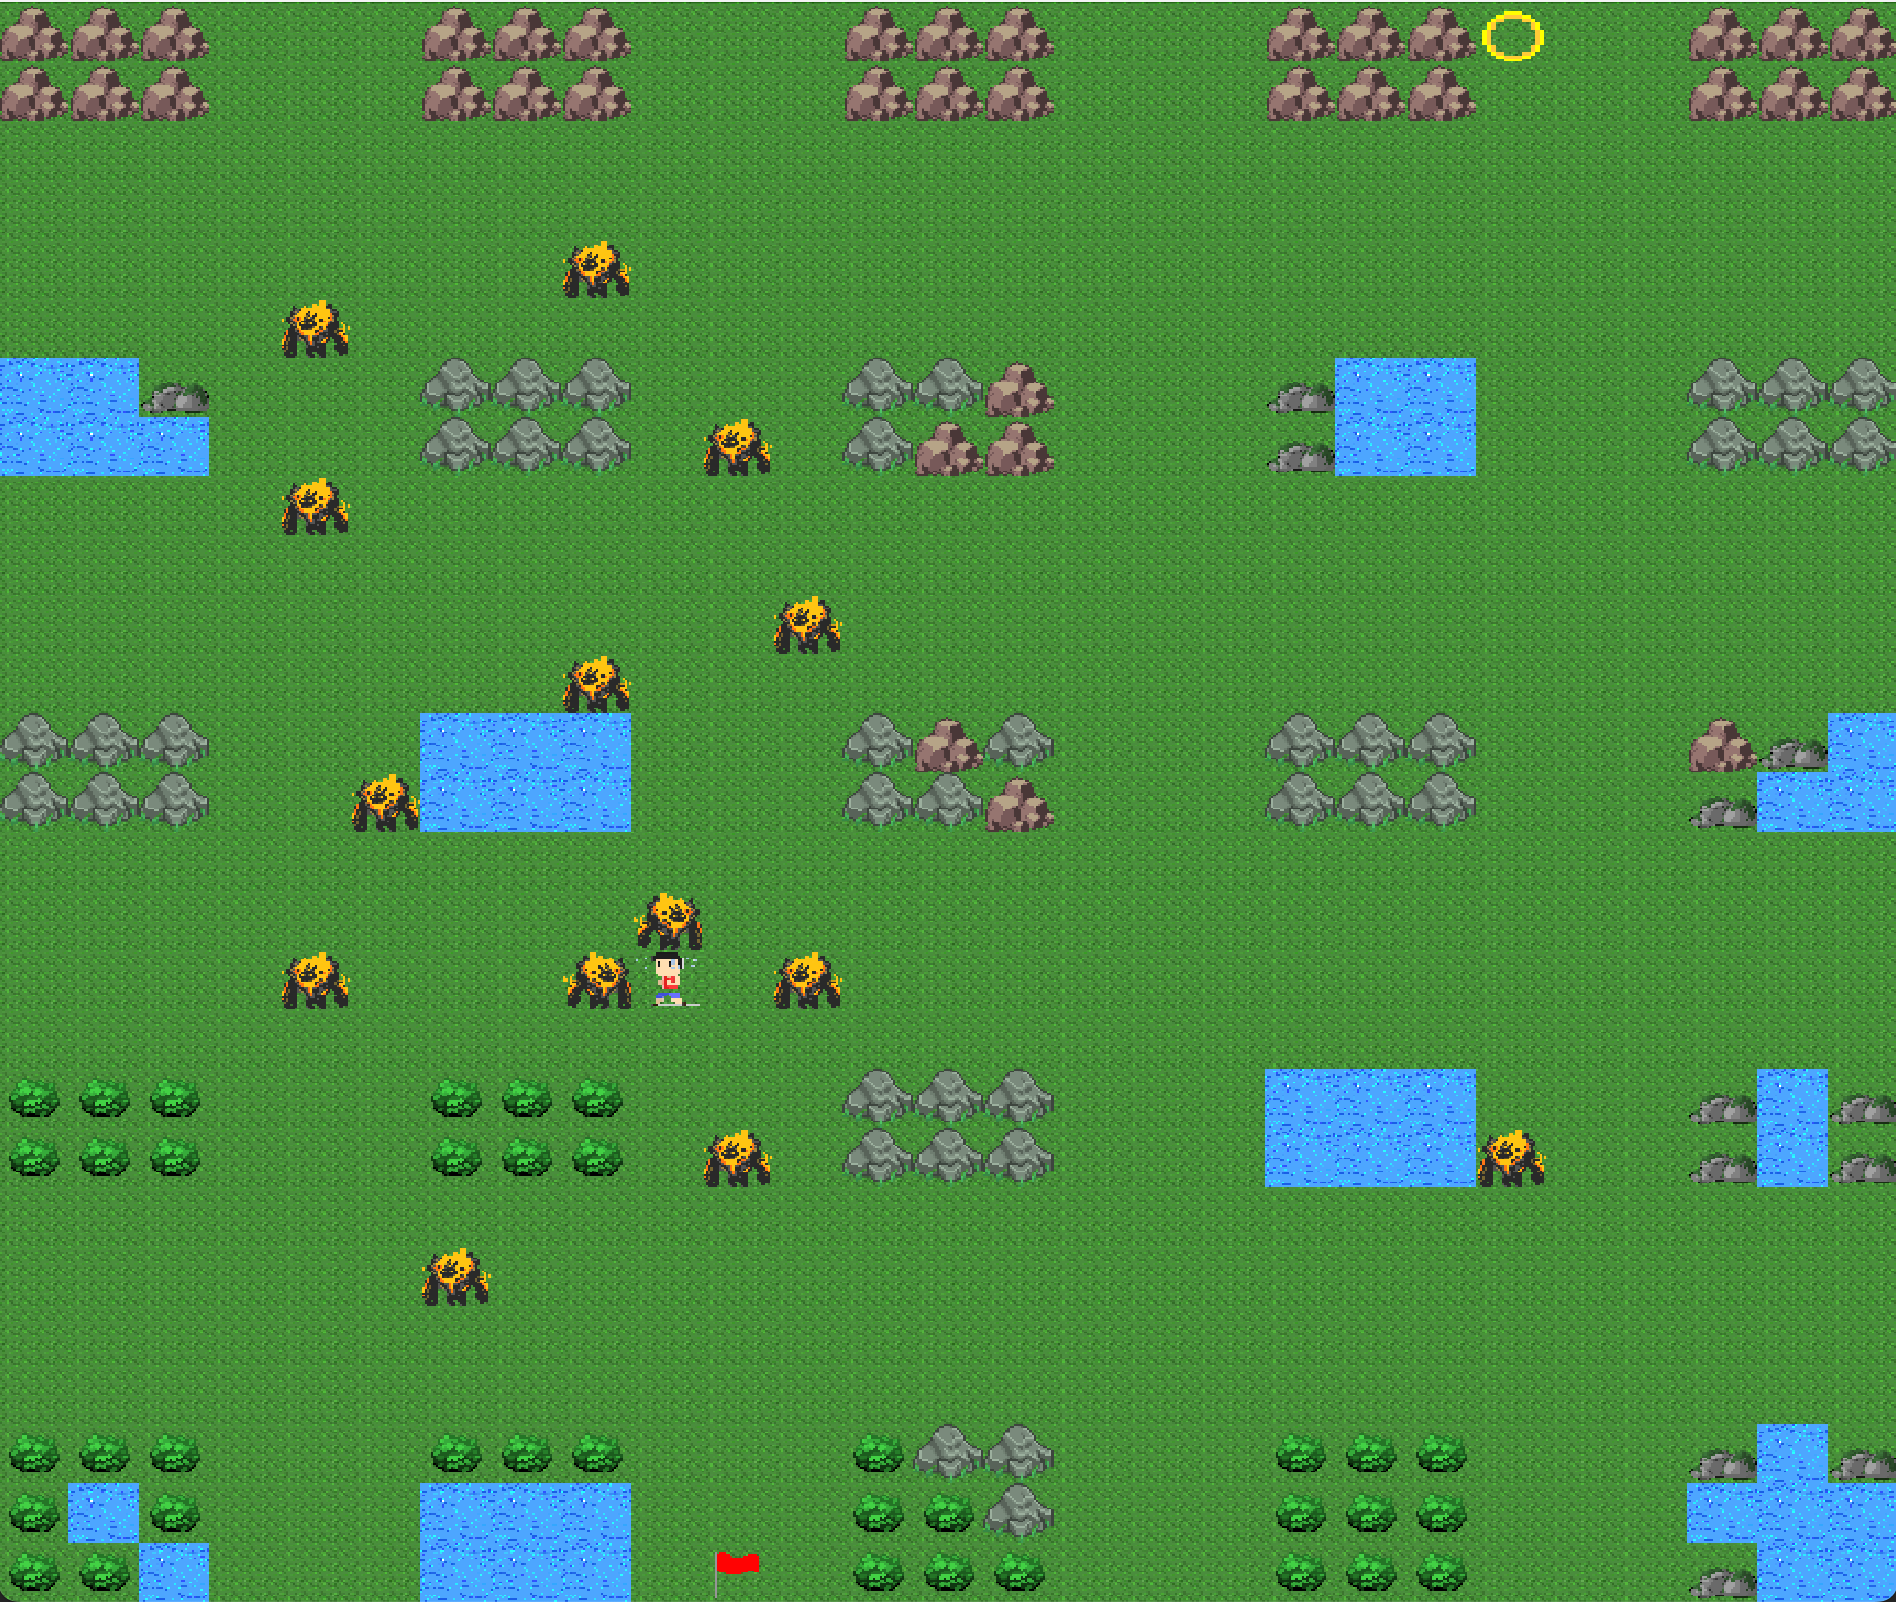
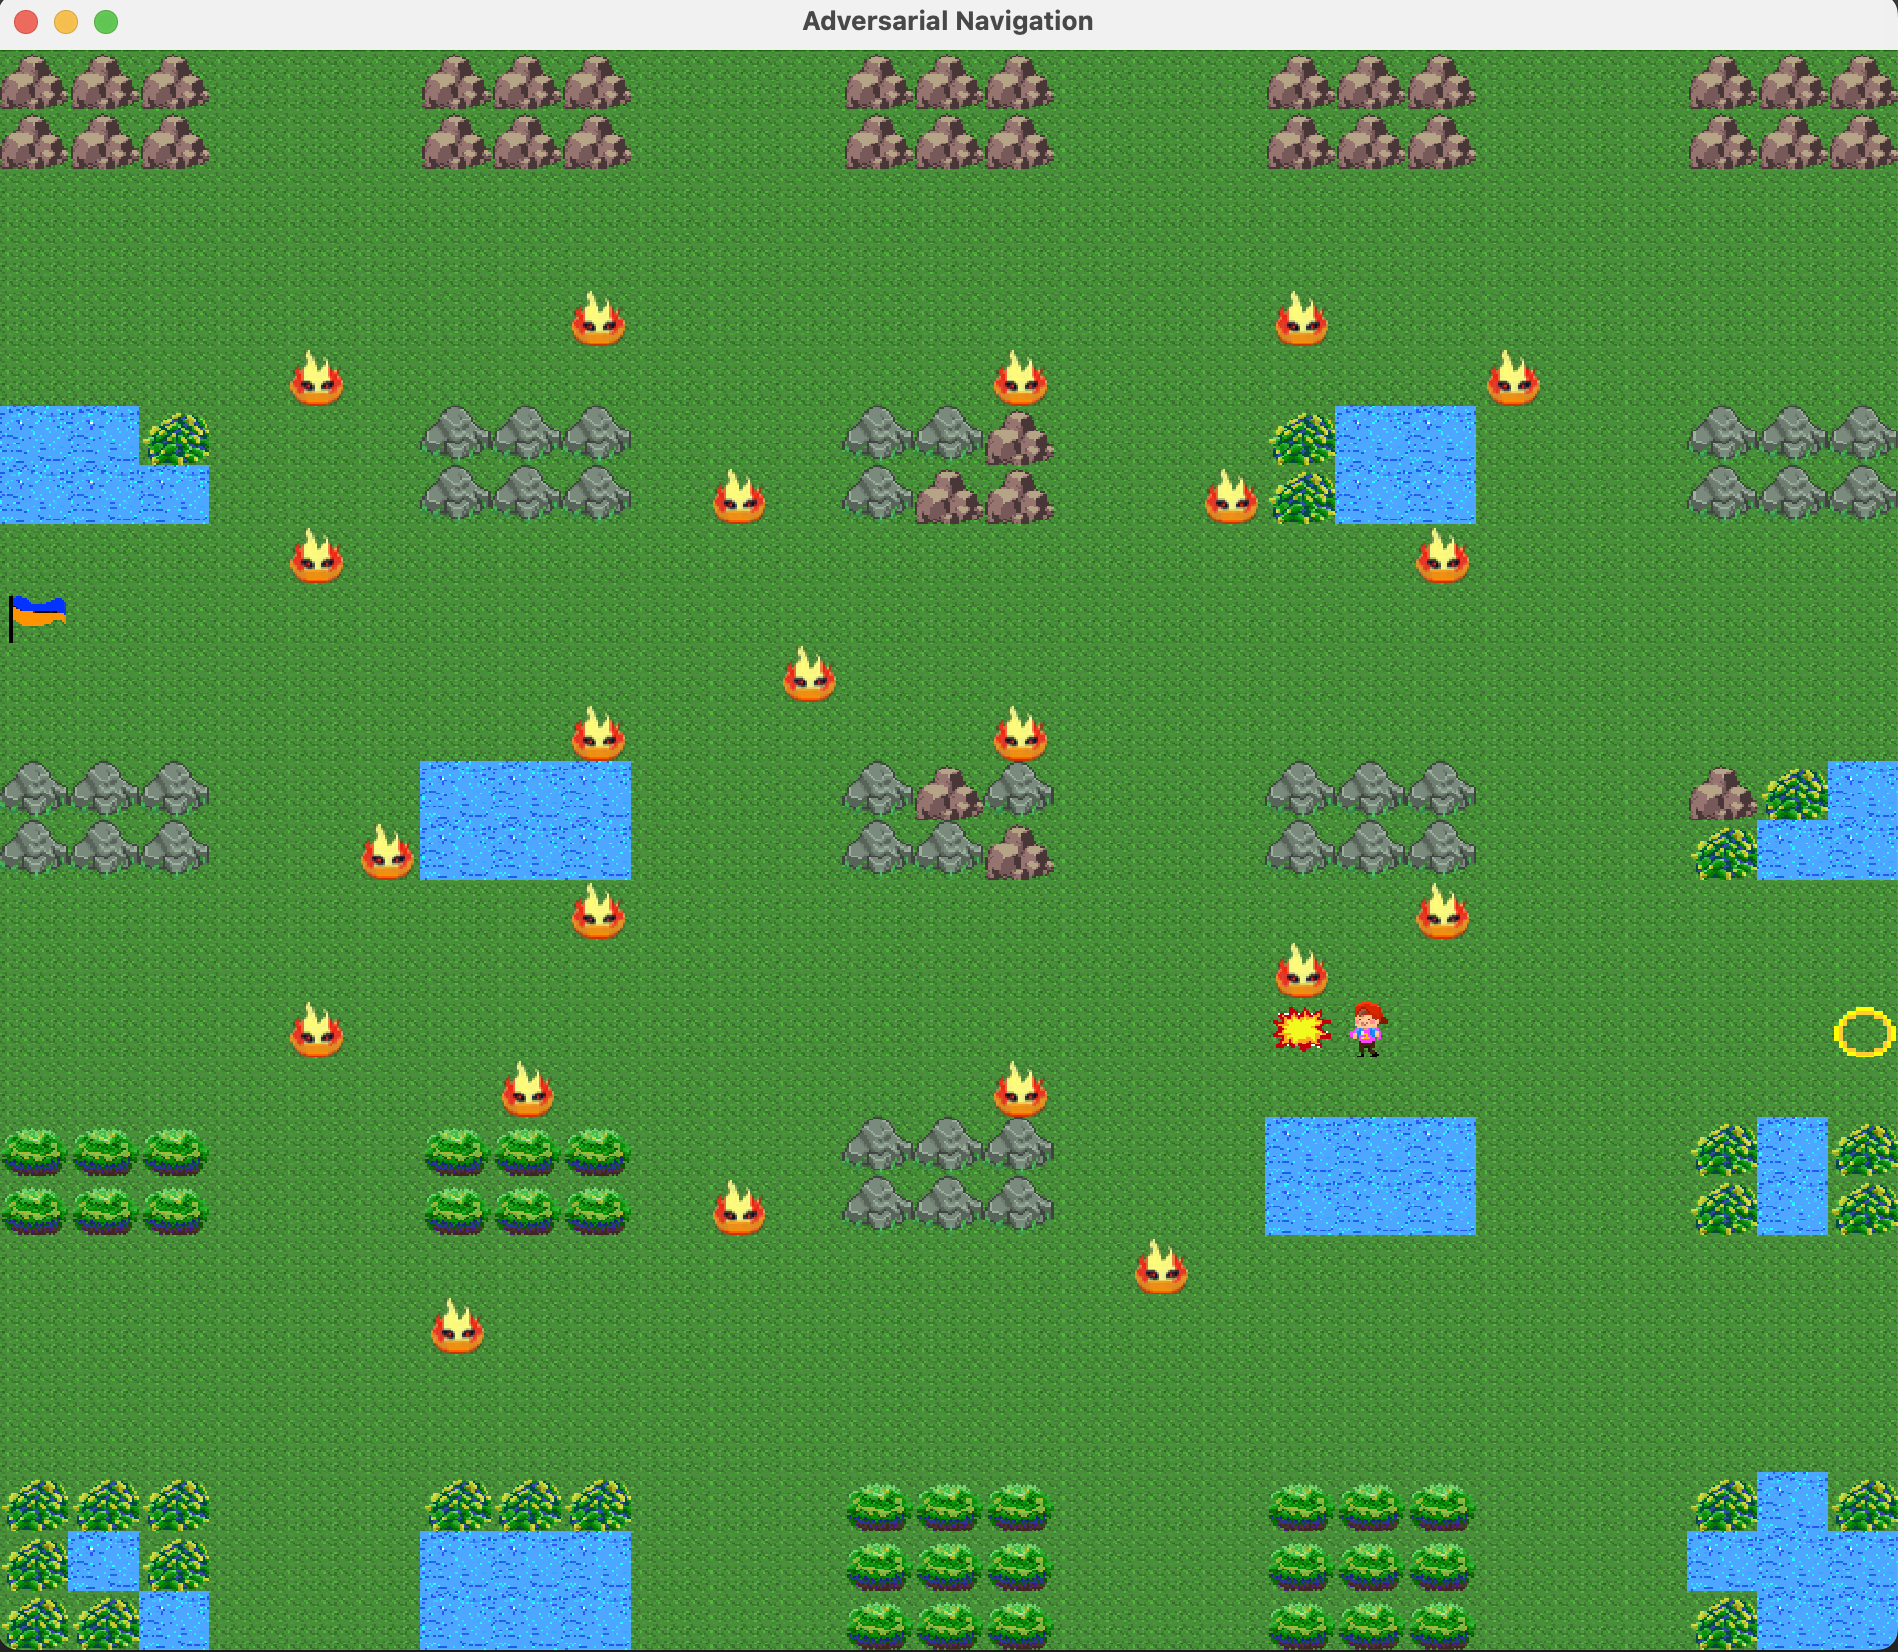
fixed map generation, updated tiles

diff --git a/apps/game1/UI/SimpleUIView.cpp b/apps/game1/UI/SimpleUIView.cpp
@@ -17,33 +17,33 @@ void SimpleUIView::startGameLoop(bool &isGameStopped) {
 
     int gameMap[] =
             {
-                    14, 14, 14, 1, 1, 1, 14, 14, 14, 1, 1, 1, 14, 14, 14, 1, 1, 1, 14, 14, 14, 1, 1, 1, 14, 14, 14,
-                    14, 14, 14, 1, 1, 1, 14, 14, 14, 1, 1, 1, 14, 14, 14, 1, 1, 1, 14, 14, 14, 1, 1, 1, 14, 14, 14,
+                    12, 12, 12, 1, 1, 1, 12, 12, 12, 1, 1, 1, 12, 12, 12, 1, 1, 1, 12, 12, 12, 1, 1, 1, 12, 12, 12,
+                    12, 12, 12, 1, 1, 1, 12, 12, 12, 1, 1, 1, 12, 12, 12, 1, 1, 1, 12, 12, 12, 1, 1, 1, 12, 12, 12,
                     1, 1, 1, 1, 1, 1, 1, 1, 1, 1, 1, 1, 1, 1, 1, 1, 1, 1, 1, 1, 1, 1, 1, 1, 1, 1, 1,
                     1, 1, 1, 1, 1, 1, 1, 1, 1, 1, 1, 1, 1, 1, 1, 1, 1, 1, 1, 1, 1, 1, 1, 1, 1, 1, 1,
                     1, 1, 1, 1, 1, 1, 1, 1, 1, 1, 1, 1, 1, 1, 1, 1, 1, 1, 1, 1, 1, 1, 1, 1, 1, 1, 1,
                     1, 1, 1, 1, 1, 1, 1, 1, 1, 1, 1, 1, 1, 1, 1, 1, 1, 1, 1, 1, 1, 1, 1, 1, 1, 1, 1,
-                    12, 12, 13, 1, 1, 1, 0, 0, 0, 1, 1, 1, 0, 0, 14, 1, 1, 1, 13, 12, 12, 1, 1, 1, 0, 0, 0,
-                    12, 12, 12, 1, 1, 1, 0, 0, 0, 1, 1, 1, 0, 14, 14, 1, 1, 1, 13, 12, 12, 1, 1, 1, 0, 0, 0,
+                    10, 10, 11, 1, 1, 1, 0, 0, 0, 1, 1, 1, 0, 0, 12, 1, 1, 1, 11, 10, 10, 1, 1, 1, 0, 0, 0,
+                    10, 10, 10, 1, 1, 1, 0, 0, 0, 1, 1, 1, 0, 12, 12, 1, 1, 1, 11, 10, 10, 1, 1, 1, 0, 0, 0,
                     1, 1, 1, 1, 1, 1, 1, 1, 1, 1, 1, 1, 1, 1, 1, 1, 1, 1, 1, 1, 1, 1, 1, 1, 1, 1, 1,
                     1, 1, 1, 1, 1, 1, 1, 1, 1, 1, 1, 1, 1, 1, 1, 1, 1, 1, 1, 1, 1, 1, 1, 1, 1, 1, 1,
                     1, 1, 1, 1, 1, 1, 1, 1, 1, 1, 1, 1, 1, 1, 1, 1, 1, 1, 1, 1, 1, 1, 1, 1, 1, 1, 1,
                     1, 1, 1, 1, 1, 1, 1, 1, 1, 1, 1, 1, 1, 1, 1, 1, 1, 1, 1, 1, 1, 1, 1, 1, 1, 1, 1,
-                    0, 0, 0, 1, 1, 1, 12, 12, 12, 1, 1, 1, 0, 14, 0, 1, 1, 1, 0, 0, 0, 1, 1, 1, 14, 13, 12,
-                    0, 0, 0, 1, 1, 1, 12, 12, 12, 1, 1, 1, 0, 0, 14, 1, 1, 1, 0, 0, 0, 1, 1, 1, 13, 12, 12,
+                    0, 0, 0, 1, 1, 1, 10, 10, 10, 1, 1, 1, 0, 12, 0, 1, 1, 1, 0, 0, 0, 1, 1, 1, 12, 11, 10,
+                    0, 0, 0, 1, 1, 1, 10, 10, 10, 1, 1, 1, 0, 0, 12, 1, 1, 1, 0, 0, 0, 1, 1, 1, 11, 10, 10,
                     1, 1, 1, 1, 1, 1, 1, 1, 1, 1, 1, 1, 1, 1, 1, 1, 1, 1, 1, 1, 1, 1, 1, 1, 1, 1, 1,
                     1, 1, 1, 1, 1, 1, 1, 1, 1, 1, 1, 1, 1, 1, 1, 1, 1, 1, 1, 1, 1, 1, 1, 1, 1, 1, 1,
                     1, 1, 1, 1, 1, 1, 1, 1, 1, 1, 1, 1, 1, 1, 1, 1, 1, 1, 1, 1, 1, 1, 1, 1, 1, 1, 1,
                     1, 1, 1, 1, 1, 1, 1, 1, 1, 1, 1, 1, 1, 1, 1, 1, 1, 1, 1, 1, 1, 1, 1, 1, 1, 1, 1,
-                    16, 16, 16, 1, 1, 1, 16, 16, 16, 1, 1, 1, 0, 0, 0, 1, 1, 1, 12, 12, 12, 1, 1, 1, 13, 12, 13,
-                    16, 16, 16, 1, 1, 1, 16, 16, 16, 1, 1, 1, 0, 0, 0, 1, 1, 1, 12, 12, 12, 1, 1, 1, 13, 12, 13,
+                    13, 13, 13, 1, 1, 1, 13, 13, 13, 1, 1, 1, 0, 0, 0, 1, 1, 1, 10, 10, 10, 1, 1, 1, 11, 10, 11,
+                    13, 13, 13, 1, 1, 1, 13, 13, 13, 1, 1, 1, 0, 0, 0, 1, 1, 1, 10, 10, 10, 1, 1, 1, 11, 10, 11,
                     1, 1, 1, 1, 1, 1, 1, 1, 1, 1, 1, 1, 1, 1, 1, 1, 1, 1, 1, 1, 1, 1, 1, 1, 1, 1, 1,
                     1, 1, 1, 1, 1, 1, 1, 1, 1, 1, 1, 1, 1, 1, 1, 1, 1, 1, 1, 1, 1, 1, 1, 1, 1, 1, 1,
                     1, 1, 1, 1, 1, 1, 1, 1, 1, 1, 1, 1, 1, 1, 1, 1, 1, 1, 1, 1, 1, 1, 1, 1, 1, 1, 1,
                     1, 1, 1, 1, 1, 1, 1, 1, 1, 1, 1, 1, 1, 1, 1, 1, 1, 1, 1, 1, 1, 1, 1, 1, 1, 1, 1,
-                    16, 16, 16, 1, 1, 1, 16, 16, 16, 1, 1, 1, 16, 0, 0, 1, 1, 1, 16, 16, 16, 1, 1, 1, 13, 12, 13,
-                    16, 12, 16, 1, 1, 1, 12, 12, 12, 1, 1, 1, 16, 16, 0, 1, 1, 1, 16, 16, 16, 1, 1, 1, 12, 12, 12,
-                    16, 16, 12, 1, 1, 1, 12, 12, 12, 1, 1, 1, 16, 16, 16, 1, 1, 1, 16, 16, 16, 1, 1, 1, 13, 12, 12
+                    11, 11, 11, 1, 1, 1, 11, 11, 11, 1, 1, 1, 13, 13, 13, 1, 1, 1, 13, 13, 13, 1, 1, 1, 11, 10, 11,
+                    11, 10, 11, 1, 1, 1, 10, 10, 10, 1, 1, 1, 13, 13, 13, 1, 1, 1, 13, 13, 13, 1, 1, 1, 10, 10, 10,
+                    11, 11, 10, 1, 1, 1, 10, 10, 10, 1, 1, 1, 13, 13, 13, 1, 1, 1, 13, 13, 13, 1, 1, 1, 11, 10, 10
             };
 
 
@@ -66,7 +66,7 @@ void SimpleUIView::startGameLoop(bool &isGameStopped) {
                 isClosed = true;
                 uiConditions.notify_one();
                 isGameStopped = true;
-            } else if (event.type == sf::Event::KeyPressed) {
+            } else if (event.type == sf::Event::KeyPressed and event.key.code == sf::Keyboard::P) {
                 paused = not paused;
             }
 
@@ -138,33 +138,33 @@ void SimpleUIView::drawOnCanvas(TileMap &map, vector<int> &tiles) {
 
 void SimpleUIView::updateMapWithCurrentState(vector<int> &tiles) {
     if (isPlayerDead) {
-        tiles[convert2DIndexTo1D(playerX, playerY)] = 8;
-        tiles[convert2DIndexTo1D(destinationX, destinationY)] = 6;
+        tiles[convert2DIndexTo1D(playerX, playerY)] = 6;
+        tiles[convert2DIndexTo1D(destinationX, destinationY)] = 4;
     } else if (playerReached) {
-        tiles[convert2DIndexTo1D(destinationX, destinationY)] = 7;
+        tiles[convert2DIndexTo1D(destinationX, destinationY)] = 5;
     } else {
-        tiles[convert2DIndexTo1D(destinationX, destinationY)] = 6;
+        tiles[convert2DIndexTo1D(destinationX, destinationY)] = 4;
         if (playerOrientationLeft) {
-            tiles[convert2DIndexTo1D(playerX, playerY)] = 5;
+            tiles[convert2DIndexTo1D(playerX, playerY)] = 3;
         } else {
-            tiles[convert2DIndexTo1D(playerX, playerY)] = 4;
+            tiles[convert2DIndexTo1D(playerX, playerY)] = 2;
         }
     }
 
     if(playerEnRoute) {
-        tiles[convert2DIndexTo1D(sourceX, sourceY)] = 17;
+        tiles[convert2DIndexTo1D(sourceX, sourceY)] = 14;
     }
 
     for(enemyUIData enemy: enemiesInThisRound) {
         if(enemy.isDead) {
             if(enemy.x != playerX or enemy.y != playerY) {
-                tiles[convert2DIndexTo1D(enemy.x, enemy.y)] = 9;
+                tiles[convert2DIndexTo1D(enemy.x, enemy.y)] = 7;
             }
         } else {
             if(enemy.isOrientationLeft) {
-                tiles[convert2DIndexTo1D(enemy.x, enemy.y)] = 10;
+                tiles[convert2DIndexTo1D(enemy.x, enemy.y)] = 8;
             } else {
-                tiles[convert2DIndexTo1D(enemy.x, enemy.y)] = 11;
+                tiles[convert2DIndexTo1D(enemy.x, enemy.y)] = 9;
             }
         }
     }

diff --git a/apps/game1/trainingMaps.cpp b/apps/game1/trainingMaps.cpp
@@ -379,6 +379,7 @@ trainingMaps::trainingMaps(bool isTesting) {
     } else {
 
         gameMaps.emplace_back(&trainingMaps::createMap1);
+        /*
         gameMaps.emplace_back(&trainingMaps::createMap2);
         gameMaps.emplace_back(&trainingMaps::createMap3);
         gameMaps.emplace_back(&trainingMaps::createMap4);
@@ -394,6 +395,8 @@ trainingMaps::trainingMaps(bool isTesting) {
         gameMaps.emplace_back(&trainingMaps::createMap14);
         gameMaps.emplace_back(&trainingMaps::createMap15);
         gameMaps.emplace_back(&trainingMaps::createMap16);
+         */
+
 
 
         isMap1Cached = false;
@@ -558,7 +561,7 @@ void trainingMaps::serializeRandomMap(string mapId, long randomNumber) {
     }
     JsonParser jp(std::move(mapId));
 
-    const int TOTAL_FIXED_OBSTACLES  = ceil((GRID_SPAN + 3) / 6) * floor((GRID_SPAN + 3) / 6);
+    const int TOTAL_FIXED_OBSTACLES  = ceil((GRID_SPAN + 3) / 6) * floor((GRID_SPAN + 3) / 6) - 1;
     int blockObstacles[TOTAL_FIXED_OBSTACLES][4];
 
     int i=0;
@@ -610,8 +613,8 @@ void trainingMaps::serializeRandomMap(string mapId, long randomNumber) {
     lastId = placeEnemies(grid, enemies, lastId, randomNumber * 59);
     /// For small maps < 50
     lastId = placeEnemies(grid, enemies, lastId, randomNumber * 71);
-    lastId = placeEnemies(grid, enemies, lastId, randomNumber * 97);
-    lastId = placeEnemies(grid, enemies, lastId, randomNumber * 173);
+    //lastId = placeEnemies(grid, enemies, lastId, randomNumber * 97);
+    //lastId = placeEnemies(grid, enemies, lastId, randomNumber * 173);
 
 
     const int TOTAL_ENEMIES = enemies.size();
@@ -664,7 +667,7 @@ int trainingMaps::placeEnemies(std::vector<std::vector<int>>& grid, std::vector<
                     if(not isXOnBorder and not isYOnBorder and grid[central_x - x_diff][central_y - y_diff] == 0) {
                         int maxEnemiesInBoundary = 0;
                         if(retryAttempt < 0) {
-                            maxEnemiesInBoundary = 1;
+                            maxEnemiesInBoundary = 4;
                         }
                         if(not areBoundariesClearOfEnemies(grid, central_x - x_diff, central_y - y_diff, maxEnemiesInBoundary)) {
                             seedX *= 11;

diff --git a/apps/game1/gameSimulation.cpp b/apps/game1/gameSimulation.cpp
@@ -59,7 +59,9 @@ void gameSimulation::play(vector<std::vector<int>> &grid) {
                 player1->removeTemporaryObstacles();
                 if (not isPathFound) {
                     logger->logInfo("No path found, re-routing will be unsuccessful")->endLineInfo();
-                    player1->findPathToDestination(player1->current_x, player1->current_y, player1->destination_x, player1->destination_y);
+                    if (not player1->findPathToDestination(player1->current_x, player1->current_y, player1->destination_x, player1->destination_y)) {
+                        logger->logInfo("ERROR: NO PATH FOUND. USE CASE FAILED")->endLineInfo();
+                    }
                 }
             }
             logger->logDebug("Attempting to re-route")->endLineDebug();
@@ -136,8 +138,8 @@ void gameSimulation::play(vector<std::vector<int>> &grid) {
         }
     }
     logger->logDebug("Player 1 life left ")->logDebug(player1->life_left)->endLineDebug();
-    logger->logInfo("Average Execution Time ")->logInfo(cumulativeExecutionTime / (player1->timeStep-1))->endLineInfo();
-    logger->logInfo("Total time steps ")->logInfo(player1->timeStep)->endLineInfo();
+    //logger->logInfo("Average Execution Time ")->logInfo(cumulativeExecutionTime / (player1->timeStep-1))->endLineInfo();
+    //logger->logInfo("Total time steps ")->logInfo(player1->timeStep)->endLineInfo();
 }
 
 
@@ -448,9 +450,9 @@ void gameSimulation::markDeadEnemies(vector<enemyUIData> &enemiesUI) {
 }
 
 bool gameSimulation::isStuckAtBorder() {
-    return (player1->destination_x == 0 and player1->current_x == 0)
-    or (player1->destination_y == 0 and player1->current_y == 0)
-    or (player1->destination_x == GRID_SPAN - 1 and player1->current_x == GRID_SPAN - 1)
-    or (player1->destination_y == GRID_SPAN - 1 and player1->current_y == GRID_SPAN - 1);
+    return player1->current_x == 0
+    or player1->current_y == 0
+    or player1->current_x == GRID_SPAN - 1
+    or player1->current_y == GRID_SPAN - 1;
 
 }

diff --git a/apps/game1/example.cpp b/apps/game1/example.cpp
@@ -5,8 +5,6 @@
 #include "trainingMaps.h"
 #include <sys/resource.h>
 #include "GameController.h"
-#include <SFML/Graphics.hpp>
-#include "UI/TileMap.h"
 
 #include <chrono>
 
@@ -47,7 +45,7 @@ void runTesting(player &player1) {
     trainingMaps tm(true);
     float countDestinationReach = 0;
     float death = 0;
-    float max_ep = 1;
+    float max_ep = 500;
     player1.enableInfiniteLife();
     auto t1 = high_resolution_clock::now();
     for (int i=1; i<= max_ep; i++) {
@@ -66,14 +64,15 @@ void runTesting(player &player1) {
 
         player1.playGame(grid, enemies, sx, sy, dx, dy, t);
 
-        /*
+
         if(t.final_x == t.destination_x and t.final_y == t.destination_y) {
             countDestinationReach++;
         }
+        /*
         if(player1.life_left == 0) {
             death++;
-        }
-         */
+        }*/
+
         totalDamage += t.damage;
         totalPathRatio += t.pathRatio;
         maxMemoryUsed += t.maxMemoryUsed;
@@ -91,12 +90,15 @@ void runTesting(player &player1) {
     cout<<"Average path ratio "<< averagePathRatio<<endl;
     cout<<"Average max memory used "<< averageMaxMemoryUsed<<endl;
 
-    /*
+
     float reach_percent = countDestinationReach * 100 / max_ep;
-    float death_percent = death * 100 / max_ep;
     cout<<"% reach "<<reach_percent<<endl;
+
+    /*
+    float death_percent = death * 100 / max_ep;
     cout<<"% death "<<death_percent<<endl;
      */
+
 }
 
 void generateMaps() {

diff --git a/apps/game1/JsonParser.cpp b/apps/game1/JsonParser.cpp
@@ -13,6 +13,7 @@ using namespace std;
 
 void JsonParser::serializeObstacles(const int TOTAL_FIXED_OBSTACLES, int (*blockObstacles)[4]) {
     Json::Value allObstacles(Json::arrayValue);
+
     for(int i = 0; i < TOTAL_FIXED_OBSTACLES; ++i)
     {
         Json::Value obstacle;
@@ -65,6 +66,7 @@ void JsonParser::readFromFileObstacles(std::vector<std::vector<int>>& grid) {
     Json::Value obstacles(Json::arrayValue);
     std::ifstream obstacles_file(TRAINING_MAP_DIR_OBSTACLES + trainingMapId + ".json");
     obstacles_file >> obstacles;
+    //cout<<"Number of obstacles "<<obstacles.size()<<endl;
     int blockObstacles[obstacles.size()][4];
     for(int i=0; i < obstacles.size(); ++i) {
         blockObstacles[i][0] = obstacles.get(i, Json::Value("X"))["obstacle"]
@@ -85,6 +87,7 @@ void JsonParser::readFromFileEnemies(std::vector<std::vector<int>>& grid, std::v
     enemy_file >> enemies_;
     const int TOTAL_ENEMIES = enemies_.size();
     int enemyLocations[TOTAL_ENEMIES][3];
+    //cout<<"Number of enemies "<<TOTAL_ENEMIES<<endl;
     for(int i=0; i < TOTAL_ENEMIES; ++i) {
         enemyLocations[i][0] = enemies_.get(i, Json::Value("X"))["enemy"]
                 .get(Json::ArrayIndex(0), Json::Value("X")).asInt();

diff --git a/apps/game1/gameConstants.h b/apps/game1/gameConstants.h
@@ -13,9 +13,9 @@
  * Debug Params
  */
 const int MAX_EPISODES = 300000;   /// Must be greater than 8
-const int SESSION_TIMEOUT = 100; /// not more than GRID_SPAN * 2 during test
 
 const int GRID_SPAN = 27; /// >= 10 when running unit tests [7 for gameSimulation test]
+const int SESSION_TIMEOUT = GRID_SPAN * 5;
 
 const int MIN_EXPLORATION_BEFORE_TRAINING = 4;
 
@@ -134,7 +134,7 @@ const int MAP_SECTOR_SIZE = 2 * FOV_WIDTH;
 
 const int MAX_ENEMIES_TO_TRACK = 6; /// CHANGE WOULD REQUIRE ADDITIONAL CHANGES IN OBSERVATION
 
-const int ABSTRACT_SECTOR_SIZE = GRID_SPAN / 3; /// must be integer
+const int ABSTRACT_SECTOR_SIZE = 9; /// must be integer
 
 const int LENGTH_UI_FRAME = 32 * GRID_SPAN;
 

diff --git a/apps/game1/UI/SimpleUIView.h b/apps/game1/UI/SimpleUIView.h
@@ -18,7 +18,7 @@ class SimpleUIView {
     LOG_LEVEL LogLevel = LOG_LEVEL::INFO;
     std::unique_ptr<Logger> logger;
 
-    const string TILES_RESOURCES = "/Users/debrajray/MyComputer/RL-A-STAR-THESIS/eureka/hog2/apps/game1/resources/game_tiles.png";
+    const string TILES_RESOURCES = "../resources/game_tiles.png";
 
     /// critical resource. Needs protection
     vector<std::vector<int>> grid;
